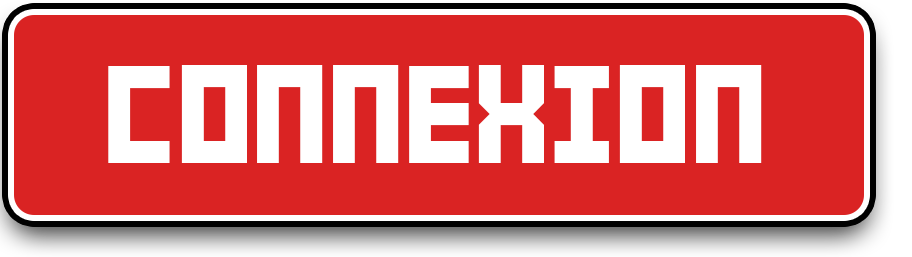
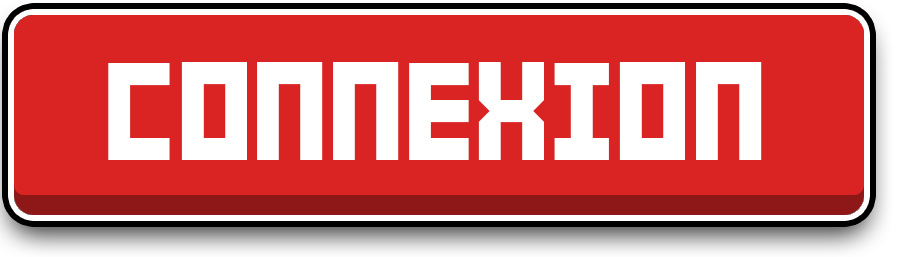
Bouton login/input + event clic

diff --git a/SoccerGame/main.cpp b/SoccerGame/main.cpp
@@ -1,6 +1,7 @@
 #include <SFML/Graphics.hpp>
 #include <iostream>
 
+
 using namespace sf;
 using namespace std;
 
@@ -82,53 +83,46 @@ int main()
 		long double fact_position_Y_login = float(245) / 768;
 		long double fact_position_Y_sign = float(437) / 768;
 		double posX = fact_position_X * dWidth;
-		double posY_login = fact_position_Y_login * dWidth;
+		double posY_login = fact_position_Y_login * dHeight;
 		double posY_sign = fact_position_Y_sign * dHeight;
 
-		cout << fact_position_X;
-		cout << dWidth;
-
 		// On positione les sprite
-		sprite_login.setPosition(fact_position_X, fact_position_Y_login);
-		sprite_login_push.setPosition(fact_position_X, fact_position_Y_login);
-		sprite_sign.setPosition(fact_position_X, fact_position_Y_sign);
-		sprite_sign_push.setPosition(fact_position_X, fact_position_Y_sign);
-		sprite_login.setPosition(390, 245);
-		sprite_login_push.setPosition(390, 245);
-		sprite_sign.setPosition(390, 437);
-		sprite_sign_push.setPosition(390, 437);
+		sprite_login.setPosition(posX, posY_login);
+		sprite_login_push.setPosition(posX, posY_login);
+		sprite_sign.setPosition(posX, posY_sign);
+		sprite_sign_push.setPosition(posX, posY_sign);
 
 		// On dessine la sprite
 		window.draw(sprite_background);
 		window.draw(sprite_login);
 		window.draw(sprite_sign);
-		/*
+		
 		if (event.type == Event::MouseButtonPressed)
 		{
 			if (event.mouseButton.button == Mouse::Left 
-				&& event.mouseButton.x > 278 
-				&& event.mouseButton.x < (278+ xSize)
-				&& event.mouseButton.y > 233
-				&& event.mouseButton.y < (233 + ySize)
+				&& event.mouseButton.x > posX
+				&& event.mouseButton.x < (posX + xSize)
+				&& event.mouseButton.y > posY_login
+				&& event.mouseButton.y < (posY_login + ySize)
 			){
 				window.clear(Color::Black);
 				window.draw(sprite_background);
-				window.draw(sprite_multi);
-				window.draw(sprite_solo_push);
+				window.draw(sprite_sign);
+				window.draw(sprite_login_push);
 			}
 
 			if (event.mouseButton.button == Mouse::Left
-				&& event.mouseButton.x > 705
-				&& event.mouseButton.x < (705 + xSize)
-				&& event.mouseButton.y > 233
-				&& event.mouseButton.y < (233 + ySize)
+				&& event.mouseButton.x > posX
+				&& event.mouseButton.x < (posX + xSize)
+				&& event.mouseButton.y > posY_sign
+				&& event.mouseButton.y < (posY_sign + ySize)
 				) {
 				window.clear(Color::Black);	
 				window.draw(sprite_background);
-				window.draw(sprite_solo);
-				window.draw(sprite_multi_push);
+				window.draw(sprite_login);
+				window.draw(sprite_sign_push);
 			}
-		}*/
+		}
 #pragma endregion VISUEL
 
 		window.display();
